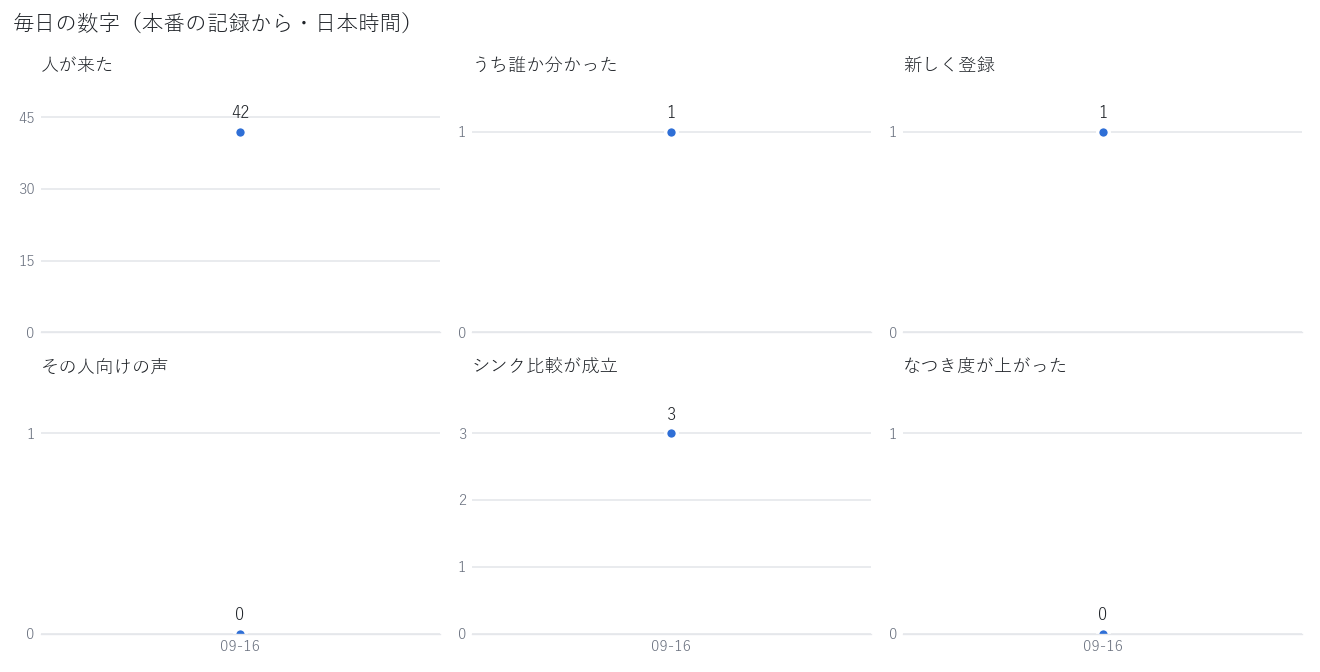
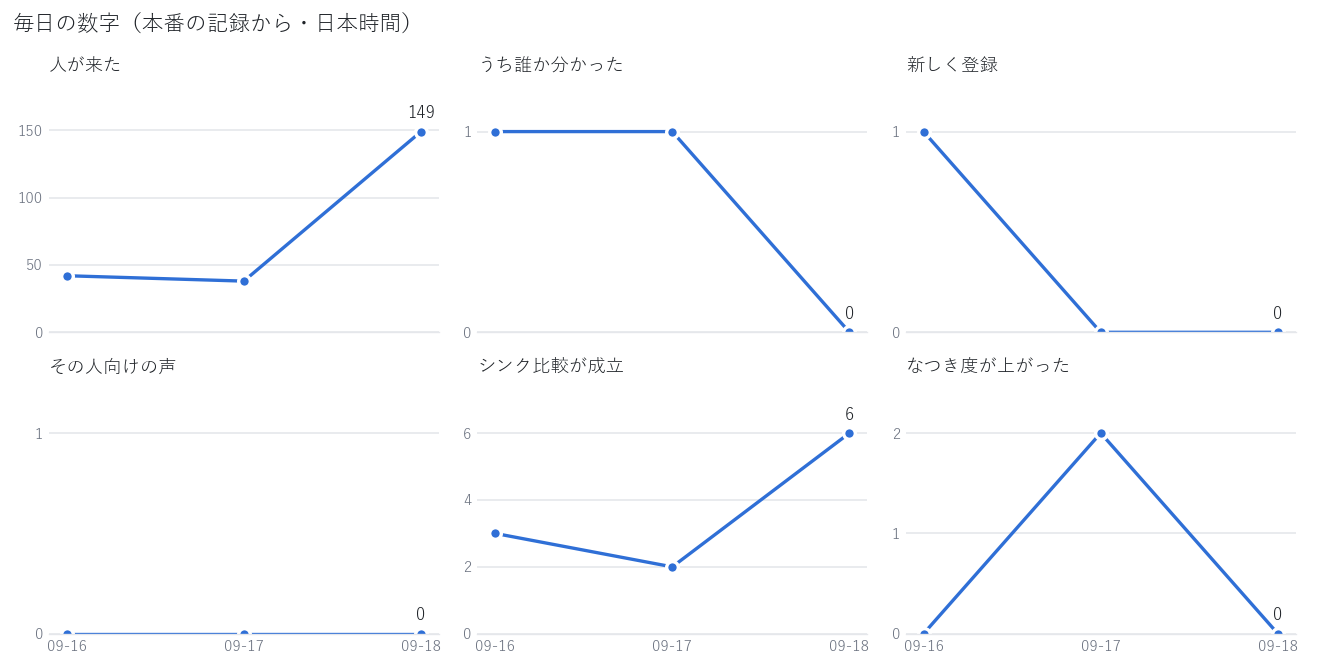
docs: one coordinator session and one worktree per work session, with the roles, the three locks and the 9/19 plan
Four sessions shared one working folder and on 9/17 one nearly pushed
another's unfinished hunks. The table now names each session's post and
the three things only one session may hold (the Pi, a push, the C3), and
CLAUDE.md tells work sessions to start in their own worktree.

diff --git a/docs/9月のタスク.md b/docs/9月のタスク.md
@@ -22,6 +22,15 @@
 
 **9月の目的（一周を閉じる）は達成。ここから先は精度の話。**
 
+### 10/4までの方向（9/15決定：精度を先に）
+9/14のゼミFBを受けて決めた。**実機で誰か分かったのは19回中2回（9/13）**なので、関係の作り方より先に精度を合格ラインまで上げる。
+
+- **合格ライン（叩き台・未確定）**：① 人が来る＝10回中9回／② 誰だか分かる＝**別人と間違える0回**（分からないは許す）／⑥ 変化を確認する＝写真で見て9割合っている
+- **関係のFBで入れるのは「貯金」だけ**：なつき度を会わなくても減らさない（「行かなきゃ」という負い目を作らないため）。数行の変更
+- **名前を呼ぶ**：9/22の数字で「別人と間違える」がほぼ0なら入れる。間違えたまま呼ぶと、別の人の名前を声に出してしまう
+- **後回し**：人によって育て方を変える（今は話し方だけが変わる）→ 台帳#6に効くので、9/22に余力があるか見て決める
+- **見せ方**：ゼミ用にガントチャート、毎日の数字は日ごとの折れ線（ランチャート）で出す
+
 ### 週の進み
 
 | 週 | 大 | 進み |
@@ -165,9 +174,9 @@ python <Arduino15>/packages/esp32/hardware/esp32/3.3.10/tools/espota.py -i 192.1
   - なつき度が動いた回数
 - その日に出た不具合は、その日のうちに潰す（週3の「保険の3日」を前倒し）
 - [ ] 9/15
-- [ ] 9/16
-- [ ] 9/17
-- [ ] 9/18
+- [x] 9/16　→ 19:5x `day_report.py`：来た42（人感39・カメラだけ3）／誰か分かった1（19:42 p01）／その人向けの声0／シンク比較3／なつき度0。サーバー起動484回
+- [x] 9/17　→ 来た38／誰か分かった1（16:51 p02）／顔が取れない20／シンク比較2（飛ばした5）／なつき度+2／起動76。**記録の欠け14.9時間**（`/spirit/log` は最新1000件まで＝その日のうちに出さないと前半が消える）。**カメラの停止**：05:18〜18:42（ラズパイの電圧不足）・20:40〜22:07（再起動後にWi-Fiが戻らず）
+- [x] 9/18　→ 来た149／**誰か分かった0**／照合できた0／顔が取れない11／シンク比較6（飛ばした12）／なつき度0／起動2。**写真が1280×720に落ちていて、顔が小さすぎて照合できない**（研究トークAの指摘）。原因はラズパイ側とみられる（未確認）。**9/19 00:07からカメラ停止**（Wi-Fiが落ちたまま）
 - [ ] 9/19
 - [ ] 9/20
 
@@ -176,39 +185,52 @@ python <Arduino15>/packages/esp32/hardware/esp32/3.3.10/tools/espota.py -i 192.1
 人が来る・去るを数えるのは、すぐ終わるので午前だけで済ませる（本人判断）。空いた午後から、9/16の仕事を前倒しする。
 
 **午前（10:00-13:00）人が来る・去るを数える**
-- [ ] 日付を渡すと、その日の数字が1枚で出る道具を書く（毎晩使う）
+- [x] 日付を渡すと、その日の数字が1枚で出る道具を書く（毎晩使う）　→ 9/16 `python scripts/day_report.py [日付]`。`docs/毎日の数字.csv` に1日1行・`docs/毎日の数字.png` に日ごとの折れ線。**その日のうちに実行する**（/spirit/log は最新1000件まで）
+  - [x] 顔の見分けの内訳を出す：合っていた／別人と間違えた／新しい人として登録した／物を人と思った／顔が写らなかった
+  - [x] 日ごとの折れ線（ランチャート）も出す
 - [ ] 時刻を控えながら10回出入りする
 - [ ] 記録と照らし合わせる（入った・去った・誰か分かった）
 - [ ] 実測の文書に一段落足す
 
 **午後（14:00-18:00）写真が6.5秒に1枚しか届かない原因（前倒し）**
-- [ ] ラズパイに送信時間の計測を入れて、2分間測る
-- [ ] 撮る／送る／返事を待つ、の内訳を出す
+- [x] ラズパイに送信時間の計測を入れて、2分間測る　→ 9/15に計測を入れ、9/15昼〜9/16朝の2716回ぶんが残っていた
+- [x] 撮る／送る／返事を待つ、の内訳を出す　→ 9/16。続けて送る間の1枚ごとの間隔は中央3.8秒・平均4.7秒。うち**わざと待つ2.8秒**が最大、繋ぐ0.19、送って返事まで0.75。「6.5秒」は5分おきの定時報告が混ざった数字
 
 **締め**：「入室10回のうち◯回が記録に残った」「1枚にかかる時間の内訳が言える」
 
 ## 9/16（水）11:00-15:00　写真の間隔を詰める／合言葉の入れ替え・鍋よけの確認（短く）
-- [ ] 写真を小さくして送る → 何秒縮むか
-- [ ] 送る間隔を3秒→2秒以下に詰める
-- [ ] もう一度2分間測り、届く枚数と「束ねられた枚数」を見る
-- [ ] （短く）合言葉を入れ替える：ラズパイ側に設定 → プログラムから消す → クラウド側と同時に切り替え → 写真が届くか確認
-- [ ] （短く）Notionの合言葉を作り直す
-- [ ] （短く）鍋を物として弾いた記録があるか確かめる
+- [x] 写真を小さくして送る → 何秒縮むか　→ **やらない**。送る時間は0.2秒ほどで縮む余地が小さく、顔が小さすぎる（face_too_small）がすでに多いので解像度は下げない
+- [x] 送る間隔を3秒→2秒以下に詰める　→ 19:26 `GAP_BUSY` 3.0→1.5 ＋ クラウドへの接続を使い回す（ラズパイに配信）
+- [x] もう一度2分間測り、届く枚数と「束ねられた枚数」を見る　→ 19:39〜19:43 の87枚：**間隔 中央3.8→1.84秒・平均4.7→2.51秒**、繋ぐ0.19→0.00秒。9割は6.2秒（返事が4〜10秒かかる回が時々ある）。「束ねられた枚数」は未確認
+- [x] （短く）合言葉を入れ替える：ラズパイ側に設定 → プログラムから消す → クラウド側と同時に切り替え → 写真が届くか確認
+      → 9/16：本番は**新旧どちらの鍵も通す**形にして（`server/keys.py`・`f611999`）、GitHub の `TIMELAPSE_KEY` を新しい鍵に、`TIMELAPSE_KEY_PREV` に古い鍵を入れて配信。
+      ラズパイは鍵を `~/spirit_brain/spirit.env`（systemd の `key.conf` で読む）に移し、プログラムから消して push（`f34620e`）。新しい鍵で送信が通るのを確認。
+      **残り：AtomS3（`atoms3_voice/config.h`）が古い鍵のまま。**焼き直したら `TIMELAPSE_KEY_PREV` を空にする。
+      ※`40568478` は **TP-Link_C452 のWi-Fiパスワード**で、C3のプログラムに載ったまま（変えるとC3の焼き直しとカメラの再設定が要る。未対応）
+- [x] （短く）Notionの合言葉を作り直す　→ **やらない**。履歴を探したところ、Notionの鍵（とAnthropicの鍵）は公開リポジトリに一度も載っていなかった
+- [x] （短く）鍋を物として弾いた記録があるか確かめる　→ 9/16：実機の記録は9/13の1回のみ（`looks_like_object`）
+  - [x] 両側から数える　→ 9/16：本人が分類した2,675枚を**本番のコードで空から再生**（写真の位置が無いので「動かない物」よけは効かせていない）
+        物・服の顔211枚に**IDが付いたのは0枚**。ただし鍋よけ自体が弾いたのは、そこまで届いた60枚中**2枚（3%）**で、
+        残りは「2コマ揃わない」「小さくて登録できない」で止まっていた。**人を間違って弾いたのは1,466枚中1枚（0.07%）**
 
 **締め（15:00）**：「写真の間隔が◯秒になった」「公開リポジトリに合言葉が無い」と言える
 
-**★9/17までに決めること：人の写る写真を残すか**（9/17 20:28に自動で消える）
+**★9/17までに決めること：人の写る写真を残すか**（9/17 20:28に自動で消える）　→ **9/16決定：残す**（精度がまだ取れていないため・了承あり）。撮る期限を **9/23 17:07** まで延長。期限が来ると撮るのが止まるだけで、写真は消えない。**9/23までにもう一度延ばす**
+
+**9/16に起きたこと**：ラズパイが **05:18に電圧不足で固まり、約14時間写真が0枚**だった（arigato-e5 が電源の入れ直しで復帰）。さらにラズパイの有線がPCに挿さっていた間は、既定の道が有線なので送れなかった（大学LANに挿し直して復帰）。**電源（ACアダプタ・ケーブル）の交換が要る**
 
 ## 9/17（木）11:00-15:00　止まったら気づける形にする　〈週4の9/29から前倒し〉
 9/13夜、本番の入れ替え直後に壊れて12時間止まり、誰も気づけなかった。観察期間に同じことが起きると、その間の記録が丸ごと抜ける。
 
-- [ ] 最後に写真を受け取った時刻・最後に見回りした時刻を記録する（すでにある値を使う）
-- [ ] 「最後に動いたのは◯分前」を確かめ用パネルに出す
-- [ ] 一定時間動いていなければ目立つようにする（パネルの色を変える）
-- [ ] 本番を入れ替えたあと、主な口が404になっていないか自動で確かめる（今回の停止の原因）
-- [ ] わざと止めて、気づけるか試す
+- [x] 最後に写真を受け取った時刻・最後に見回りした時刻を記録する（すでにある値を使う）　→ 9/17：写真の時刻は見回りの時しか更新されないので、**機械ごとに「最後にクラウドへ来た時刻」を新しく持った**（カメラ＝5分おき／C3＝10秒おき／声の係＝30秒おき）。`/spirit/health` で読める（`062b183`）
+- [x] 「最後に動いたのは◯分前」を確かめ用パネルに出す　→ `/spirit/panel` の一番上「止まっていないか」
+- [x] 一定時間動いていなければ目立つようにする（パネルの色を変える）　→ 🔴＋欄が赤＋タブに🔴。目安はカメラ15分・C3 2分・声の係3分。加えて **GitHub の見張り（`watch.yml`・10分おき）が失敗すると本人にメール**
+- [x] 本番を入れ替えたあと、主な口が404になっていないか自動で確かめる（今回の停止の原因）　→ `deploy.yml` に追加。9/17の入れ替えで health/m/panel/presence/log＝200・合言葉なしの写真＝401 を確認
+- [x] わざと止めて、気づけるか試す　→ 19:43 声の係を止める → **パネルは約3分で🔴**。見張りを手で動かして 20:15 に失敗 → **20:15 に本人へメールが届いた**。20:16 に戻した
+      ※**10分おきの自動実行が、登録から2時間たっても1回も動いていない**（GitHub の予定実行の遅れか。9/18に確認）
+      ※試験中に**本物の停止を見つけた**：C3 が 19:33〜19:50 クラウドに来ていなかった（電源の抜き差しで復帰）。クラウドは 14:53〜19:36 に**95回起動し直していた**
 
-**締め（15:00）**：「わざと止めたら、◯分で気づけた」と言える
+**締め（15:00）**：「わざと止めたら、◯分で気づけた」と言える　→ **ほぼ達成（9/17）**：パネルは3分・メールは見張りが動いた時点で即時（20:15）。自動の見張りが動き出すかは未確認
 
 ## 9/15（火）元の予定：片づけがあったら、なつき度が上がる　→ 9/9夜に済み
 - [ ] 片づけの記録が来たとき、**その時に居た人**を特定する
@@ -235,15 +257,41 @@ python <Arduino15>/packages/esp32/hardware/esp32/3.3.10/tools/espota.py -i 192.1
 ## 9/18（金）11:00-15:00　予備・整える　★唯一の予備日として空けておく
 - [ ] 前日の続き
 - [ ] 終わっていれば、場所の状態（表情）側が正しく出ているか確かめる
+- [x] （9/17から）GitHub の10分おきの見張り（`watch.yml`）が自動で動いているか　→ **動いた。9/17 21:39 の自動実行が初めて走り、本物の停止を見つけて失敗**（カメラ57分・声の係6分こない）。本人にメールも届いた
+- [ ] （9/17から）クラウドが1日に何百回も起動し直す原因（9/17：11:18〜15:40に約570回）
+      → 9/17夜：**メモリ不足が第一候補**。手元で実測すると、顔の部品で＋80MB、Tapoの大きな写真（2560×1440）1枚の処理で**＋200MB**。
+        本番は起動直後で170MB使っており、合計約450MB。**上限は512MB（既定・未指定）だった**。
+      → **上限を 1GB に上げた**（`b093e14`）。`/spirit/health` にメモリの値、「起動」の記録に起動からの秒数を足した（`47c37ab`）。
+      → **残り：人が来る時間帯に「起動」の記録が出るか。**起動からの秒数が数秒なら本当の起動し直し。出なくなっていれば原因はメモリで確定
+- [ ] （9/17から）C3 がクラウドに来なくなる件（9/17 19:33〜、電源で復帰）。次に起きたら、前回の起動から何時間後かを控える
+- [ ] **ラズパイが再起動するとWi-Fiにつながらない**（9/17 22:0x：再起動後 wlan0 が落ちたままで、カメラに届かず写真が約1時間半止まった。手で `nmcli con up spiritnet` して復帰）
+- [ ] **ラズパイの電源の交換**（9/16の電圧不足に続き、9/17も複数回の再起動。公式 5.1V/3A・ケーブル一体型）
 ※9/13・9/15・9/16・9/17 に宿題を割り当てたので、余裕はこの日だけ。埋めない
 
-## 9/19（土）C3が段階を受け取る
+## 9/19（土）〈9/19 00:35 組み替え〉実機を直して数字を取り戻す
+元の予定（C3が段階を受け取る）は9/20に寄せる。理由：**9/19 00:07からラズパイが止まり、写真が0枚**。
+さらに9/17夜〜9/19は**写真が 2304×1296 → 1280×720 に落ちていて**、9/17に入れた新しい顔の規則の成績が測れていない
+（入れ替え後24時間で顔の判定8回・IDが付いたのは0回）。実機が動かないと、顔の採点・毎日の数字・Cのマイク確認の3つとも進まない。
+
+- [ ] ラズパイの電源を抜き差しする（**本人**。NAS兼用なのでトークにはやらせない）
+- [ ] Wi-Fi（wlan0 / spiritnet）が自動で戻るか。戻らなければ手で上げる（研究トークB）
+- [ ] **写真の画像サイズが 2304×1296 に戻ったか**を確かめ、研究トークAに伝える（研究トークB）
+- [ ] 「再起動するとWi-Fiに戻らない」の直し方を1行で決める（電源交換と合わせて。研究トークB）
+- [x] **主ストリームの ffmpeg が死んでも起こし直さない**　→ 研究トークBが直して push（`a1cb873`・00:42）。**ラズパイに置くのは復旧後**。元の記述：（`tapo_bridge.py` 698行：起動時1回だけ。副が切れたときしか両方起き直さない）→ 死んだか30秒更新が無ければ起こし直す（研究トークB。Cの未コミットの塊を混ぜない）
+      ※9/19 00:5x 進行役が発見。「16:37以降ずっと小・20:21だけ大」と形が合う。主が死ぬきっかけ（電圧・カメラ側・TCP）は別で未確定
+      ※マックの Tapo 接続は **9/18 18:58 が最初**（9/17は401のみ）→ 9/17の縮小はマックでは説明できない。9/18夜だけ候補に残る。マックは判断まで接続停止中
+- [x] `docs/毎日の数字.csv` の9/17・9/18を埋める　→ 研究トークBが埋めた（9/17は欠け14.9時間つき）
+- [ ] 大きい写真に戻った時刻から先の顔を降ろす段取りを決める（研究トークA。小さい写真の時間帯を混ぜない）
+- [ ] （確認）クラウドの起動し直しが**人が来る時間帯**にも消えているか。9/18 19:05〜9/19 00:28 は5時間半つながったまま・439MB/1024MB
+
+**締め（18:00）**：「写真が元の大きさで届いている」「9/17・9/18の数字の行が埋まっている（欠けとしてでも）」と言える
+
+### 9/19に回さなかったもの（9/20へ）
 - [ ] C3がクラウドから段階を読むようにする
 - [ ] 読めているか確かめる（画面かシリアルで）
 - [ ] 段階によって出し分ける（**まず1つだけ**）
 - [ ] 焼いて試す
-
-**締め（18:00）**：C3が段階を読めている
+- [ ] **貯金**（9/15決定）：会わない7日ごとに−1をやめる（`BOND_FADE_DAYS`）。10で止めるかは作る前に決める
 
 ## 9/20（日）手元で一周させる
 - [ ] なつき度を手で変えて、C3の出方が変わるのを見る
@@ -261,11 +309,21 @@ python <Arduino15>/packages/esp32/hardware/esp32/3.3.10/tools/espota.py -i 192.1
 「実機で通す」「不具合を潰す」は週2に前倒ししたので、週3は数え続けて弱い所を潰す週にする。
 
 - [ ] 9/15〜9/21の毎日の数字を1枚にまとめる
+- [ ] **カメラを受ける先を決める：ラズパイのまま／マックに寄せる**（9/19 01:1x 本人決定：数字で決める）
+      材料：①ラズパイだけで 2304×1296 が続いたか（B）②新規則の実機の「別人と間違える」（A）③マックの「1滞在＝1トラック」と正面の枚数（マック）
+      ※マックの Tapo 接続は、Bが「大きい写真が安定」と言うまで停止。録画は残す
+- [ ] **顔：やり直し後（9/16 18:06〜）の実機で「別人と間違える」を測る**（名前を呼ぶかの材料）
+  - [ ] 切り抜きを降ろす：`C:\Users\kengk\facework` で `python bin/fetch_since.py 0916_1806 label_0921`
+  - [ ] 本人が `label_0921\00_未仕分け` を分類する（前回と同じ文字・`_前回の見本` あり）
+  - [ ] 採点：`python bin/replay_prod_0916.py --label label_0921 --crops crops3 --rows rows.json --from 0916_1806`。「参考：実際の本番が付けたID」が実機の成績、「再生」が今のコードの成績
 - [ ] 段階ごとに「何回中何回」を並べ、いちばん低い段階を1つ選ぶ
 - [ ] その段階が低い理由の候補を挙げ、どれが効いているか測り方を決める
 - [ ] 今日の数字を出す
+- [ ] 合格ラインと比べて、どの段階が届いていないか並べる
+- [ ] **名前を呼ぶか決める**：実機で「別人と間違える」がほぼ0なら入れる。そうでなければ見送る
+- [ ] 人によって育て方を変えるか決める（余力があれば）
 
-**締め**：「今週はこの段階を上げる。理由は◯◯」と言える
+**締め**：「今週はこの段階を上げる。理由は◯◯」「名前は入れる／見送る」と言える
 
 ## 9/23（水）／9/24（木）／9/25（金）11:00-15:00　弱い段階を潰す・数え続ける
 - [ ] 9/23 選んだ段階の原因を1つ測って潰す／今日の数字

diff --git a/docs/いま触っているもの.md b/docs/いま触っているもの.md
@@ -1,0 +1,92 @@
+# いま触っているもの（トークどうしの札）
+
+同じ日に複数のトークを並行して開くときの、**担当の札**。
+9/16 に、2つのトークが同じ `bridge/tapo_bridge.py` を同時に書き換えかけたので作った。
+9/19 00:30、トークが5つになったので**持ち場**の形に作り直した（整理は「進行役」のトーク）。
+
+---
+
+## 1. 鍵（同時に1トークしか持てないもの）
+
+**この3つだけが取り合いになる。持ったら名前と時刻を書き、放したら「空き」に戻す。**
+
+| 鍵 | いま持っている人 | いつから |
+|---|---|---|
+| **ラズパイ本体**（ファイル書き換え・再起動・電源） | 研究トークB | 9/18 夜〜（Wi-Fi の復旧中） |
+| **本番への入れ替え（git push）** | 空き（docs だけの push は `server/` `pwa/` を含まないので配信は走らない。進行役が随時） | ― |
+| **C3 への書き込み（焼き直し）** | 空き | ― |
+
+放すときは、待っているトークに「終わった」とメッセージを送る。
+
+---
+
+## 2. 持ち場（トークごとの担当。**持ち場の外には手を出さない**）
+
+| トーク | 持ち場 | 触ってよいもの | いまの状態（9/19 00:30） |
+|---|---|---|---|
+| **進行役**（このトーク・arigato-09） | 予定と記録。毎晩の突き合わせ。札の管理 | `docs/9月のタスク.md`、`docs/いま触っているもの.md`、`secretary/logs/` | 全体を整理中 |
+| **研究トークB** | **実機と見張り**：ラズパイ・電源・停止検知・**毎日の数字** | ラズパイ本体、`bridge/`、`.github/workflows/`、`scripts/day_report.py` | ラズパイは本人が電源を入れ直す（待ち）。**主ストリームの起こし直しは commit・push 済み（`a1cb873`・00:42）→ ラズパイが戻ったら置く**。9/17・9/18 の数字の行は埋めた |
+| **研究トークA** | **顔の精度A**：判定と覚え直しの規則・採点 | 手元の `C:\Users\kengk\facework\`。本番は**読むだけ** | 9/17夜に新規則を本番へ（`a541fbf`）。24時間で判定8回・ID 0回・間違い0回＝**写真が小さく（1280×720）なっていて測れていない**。ラズパイ待ち |
+| **研究トークC** | **キャラが名前を聞く**（会話） | 手元の `server/routers/spirit_name.py`（新規）・`spirit.py` の迎え数行・`main.py` 1行・`bridge/tapo_bridge.py`。クラウドの別サービス `voicevox` | **作業コピー：`.claude/worktrees/C`（枝 worktree-C・9/19 に移った）**。手元で書き終わり・**未コミット**。次は Tapo のマイクの確認 → PC をラズパイに届く場所へ移すのを本人待ち |
+| **マックのB文書確認**（M1マック・宛先名はこれ） | **顔の精度B**：追跡を使う新構成の下調べ | マック本体とマックの中のプログラムだけ | 9/18：M1で環境構築＋実測。計算は余る（1コマ52ms）が**通信が細い**：Tapoの副ストリーム(1280×720)しか取れず、顔幅は最大13px＝小さすぎる。20:42〜31分キッチンを記録（マック内・push無し）。**主ストリームが要る＝「カメラから受けるのを1台に寄せる」判断を本人待ち**。※この札は直接読めないので進行役が代筆。リモートで届く（ListAgents に「Remote Control」で出る） |
+
+---
+
+## 3. 決まり
+
+1. **始める前にこの札を読む。**鍵を取るときは表に書く
+2. **ほかのトークの持ち場には、そのトークに確認してから**入る（宛先は ListAgents に出る名前）
+3. **コミットは `git add -p` で自分の部分だけ選ぶ。**作業フォルダは全トーク共通で、他のトークの未コミットの変更が混ざっている
+   （9/17、研究トークBが研究トークCの `spirit.py` の変更を誤って push しかけ、入れ替えを取り消した）
+4. **トーク名は開いた最初に、役割がわかる名前にする。**名前が宛先になる。サイドバーの名前を後から変えても宛先は変わらない（9/16に確認）
+5. **1日の終わりに、各トークが `secretary/logs/YYYY-MM-DD.md` に自分の分を追記する。**
+   進行役が最後にまとめる。**9/18 はこれをせず、記録が1日ぶん空いた**
+
+---
+
+## 4. 待ち（本人の判断を待っているもの）
+
+| 待っているトーク | 何を待っているか |
+|---|---|
+| 研究トークB | ① ラズパイを再起動してよいか（NAS 兼用）／② 電源（公式5.1V/3A）の交換 |
+| 研究トークC | PC をラズパイに届く場所（同じ部屋の LAN 口か研究室 Wi-Fi）へ移すこと |
+| 研究トークA | なし。ラズパイが直り、写真が 2304×1296 に戻るのを待っている |
+| マックのB文書確認 | （9/19 01:1x 決定済み）**カメラを受ける先は 9/22 に数字で決める**。録画は残す。Tapo への接続は、Bが「大きい写真が安定」と確認するまで停止。再開は進行役が伝える |
+
+---
+
+## 5. 作業コピー（9/19 01:3x 決定：作業トークは1トーク1コピー）
+
+9/17 に研究トークBが研究トークCの未コミットの変更を push しかけた根は、**4つのトークが同じ作業フォルダで動いていた**こと。
+これからは **作業トークは自分の作業コピー（git worktree）を持ち、共通フォルダには進行役しか居ない**。
+
+```
+arigato/                        ← 進行役だけ（枝 main）。docs・札・logs はここが正
+arigato/.claude/worktrees/B/    ← 研究トークB（枝は EnterWorktree が作る）
+arigato/.claude/worktrees/C/    ← 研究トークC（同上）
+マック                          ← 自分のクローン。push は 9/22 の判断まで無し
+```
+
+### 入り方（各トークが自分でやる。1回だけ）
+1. 共通フォルダに**自分の未コミットの変更があれば**、自分のファイルだけ退避：`git stash push -u -m "<自分の名前>" -- <自分のファイル…>`
+2. `EnterWorktree`（name は自分の役割名：`B`・`C`）。origin/main から新しい枝で作業コピーができ、トークの居場所がそこに移る
+3. 退避したものを戻す：`git stash pop`（stash はコピー間で共通）
+4. 札の自分の行に「作業コピー：`.claude/worktrees/◯`」と書く
+
+### 作業コピーに移ったあとの決まり
+- **札と作業ログは絶対パスで触る**（作業コピーの中の `docs/` は自分の枝の写しで、他のトークからは見えない）
+  - 札：`C:\Users\kengk\research-os\work\arigato\docs\いま触っているもの.md`
+  - ログ：`C:\Users\kengk\research-os\secretary\logs\YYYY-MM-DD.md`
+  - `docs/9月のタスク.md` は進行役の持ち場。**書き換えず、進行役にメッセージで「これが終わった」と送る**
+- 自分の枝には自由に commit する（他人の変更は混ざらないので `git add -p` は要らなくなる）
+- ラズパイへ置くときは、**自分の作業コピーのファイル**を置く（他人の未コミットの塊が混ざらない）
+
+### 本番へ入れる（push）とき
+1. 札の鍵「push」を取る
+2. `git fetch origin && git rebase origin/main`（他のトークの分を下に敷く）→ 手元で動くことを確かめる
+3. `git push origin HEAD:main`（`server/` `pwa/` を含めば配信が走る。`deploy.yml` が入れ替え後に主な口を自動で確かめる）
+4. 鍵を放し、**進行役に「push した」と送る**（進行役が共通フォルダで `git pull --ff-only` する）
+
+### 進行役の決まり
+- docs を commit する前に `git pull --ff-only`（作業トークの push で main が進んでいる）
+- 共通フォルダに残っている**持ち主のいない古い未コミット**（`esp32cam/`・`voice/manner.py`・`TODO.md`・`docs/設置手順_2026-08-29.md`。7〜8月のもの）は、当面そのまま。持ち主が分かったらそのトークに引き取らせる

diff --git a/CLAUDE.md b/CLAUDE.md
@@ -1,5 +1,55 @@
 # arigato - ありがとうアプリ
 
+## 会話のはじめ方（毎回・2026-09-09）
+
+**何も言われなくても、まずこの3つを読む**（読んだことは言わない）：
+
+1. `docs/9月のタスク.md` ── **これが正**。日ごとのタスクと締めが `- [ ]` で並んでいる
+2. `../../secretary/logs/` の最新ログ ── 昨日までに何があったか
+3. （必要なら）`docs/9月の中スケジュール_2026-09-08.md` ── その週の大きな目標
+4. `docs/いま触っているもの.md` ── **ほかのトークが並行して何を触っているか**（9/16追加）
+
+**並行しているトークとぶつからないために（9/16）：**
+- 手を動かす前に、触るもの（ファイル・ラズパイ本体・本番への入れ替え・C3）を `docs/いま触っているもの.md` の自分の行に書く
+- ほかのトークの行にあるものは、**そのトークに確認してから**触る（ListAgents で名前を見て SendMessage）
+- ラズパイ本体・本番への入れ替え（push）・C3への書き込みは、**同時に1トークだけ**
+- 終わったら自分の行を消し、待っているトークに「終わった」と送る
+
+**作業コピー（9/19）：作業トークは worktree、進行役だけが共通フォルダ**
+- このディレクトリ（`arigato/`）で開いたトークは**進行役**。予定（`docs/9月のタスク.md`）・札・ログを持ち、コードは書かない
+- 実装・実測をする作業トークは、**始めに `EnterWorktree`（name は役割名）で自分の作業コピーに移る**。手順と決まりは `docs/いま触っているもの.md` の「5. 作業コピー」
+- 作業コピーから札とログは**絶対パス**で触る（`C:\Users\kengk\research-os\work\arigato\docs\いま触っているもの.md`／`C:\Users\kengk\research-os\secretary\logs\`）
+
+**そのうえで、こう切り出す（全体 → 昨日 → 今日 の順。長くしない）：**
+
+```
+【全体】一周の7段階：◯個つながり、残りは「◯◯」と「◯◯」。
+　　　　手を動かせるのは10/4まで（あと◯日ぶん）。提出まであと◯週。
+
+【昨日】◯/◯は「◯◯」まで進みました。残っているのは [◯◯]（あれば）。
+
+【今日】◯/◯は「◯◯」の日。締めは「◯◯」。
+
+始めますか？
+```
+
+- **全体は3行で足りる。** 一周の残り／手を動かせる残り／提出までの残り
+- 一周の状態は `docs/9月のタスク.md` の「現在地」を見る。**進んだらそこも書き換える**
+
+- 昨日の締めが**達成できていなければ、そう言う**。取り繕わない
+- 今日が予備日なら、**遅れているものを提案する**
+- タスクが1つ終わるたびに `docs/9月のタスク.md` の `- [ ]` を `- [x]` に変える
+- **その日の締めに達したら、そう告げる。** それ以上は広げない（明日の分に手を出さない）
+
+## 会話の終わり方
+
+1. その日やったことをまとめて確認する
+2. `../../secretary/logs/YYYY-MM-DD.md` に書く
+3. 研究の証拠になる数字が出たら `【台帳#N】` を付ける（thesis側が拾う）
+4. `docs/9月のタスク.md` のチェックが最新か確かめる
+
+---
+
 ## プロジェクト概要
 修士論文の研究用Webアプリ。
 共有空間の整備記録を投稿し、ありがとうを届け合うシステム。
@@ -106,6 +156,24 @@ GitHub Actions → Cloud Run 自動デプロイ
 - 書き込み内容：`https://arigato-3ipecjbnha-an.a.run.app/zone/{zone_id}`
 - 書き込みツール：ESP32 + PN532（MicroPython）
 - 書き込み保護：NTAG215のパスワード保護機能を使用
+
+---
+
+## 研究への橋（thesis/主張台帳 との接続）
+
+この電子制作は趣味ではなく、論文の主張の**証拠づくり**である。
+いまこの実機が背負っている主張（`../../thesis/主張台帳.md` の番号）：
+
+| 台帳# | 主張 | この実機で何を測れば証拠になるか |
+|---|---|---|
+| #5 | 表情だけで「機嫌を直したい」と手が出る | キッチン設置後の世話イベント数・M/N値の推移 |
+| #6 | 人ごとの地霊は1キャラより愛着を強める | 地霊あり/なし・人ごとの反応差（設置後） |
+
+**ルール：研究の証拠になりうる結果（実測値・観察・ユーザーの反応）が出たら、
+その日のログ（`../../secretary/logs/YYYY-MM-DD.md`）に `【台帳#N】` タグを付けて記録する。**
+例：`【台帳#5】統合機を仮設置、初日の世話イベント3件（内訳…）`
+→ thesis セッションが起動時にこのタグを拾い、タグの昇格（未検証→揺れる→固い）を判断する。
+逆に、thesis 側で決まった実験設計（A-B-A'・計測項目・閾値）は、ここでの実装タスクとして降りてくる。
 
 ---
 
